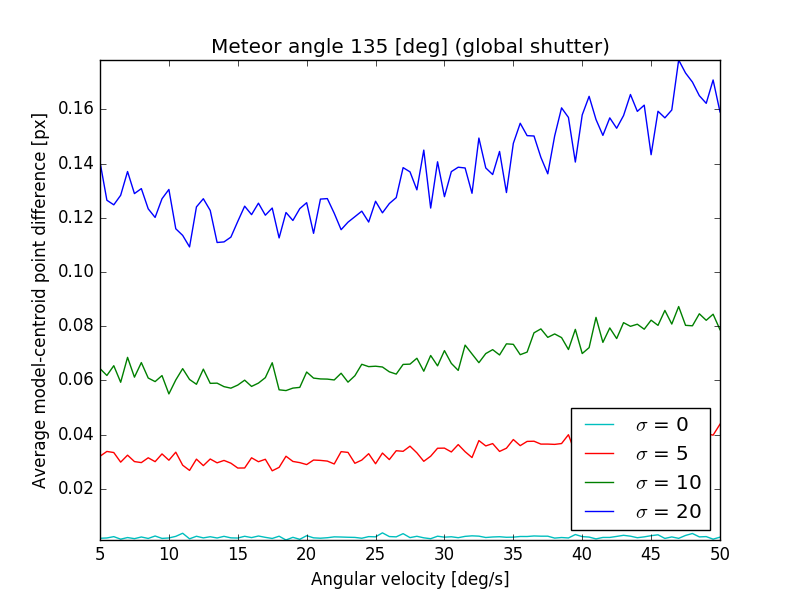
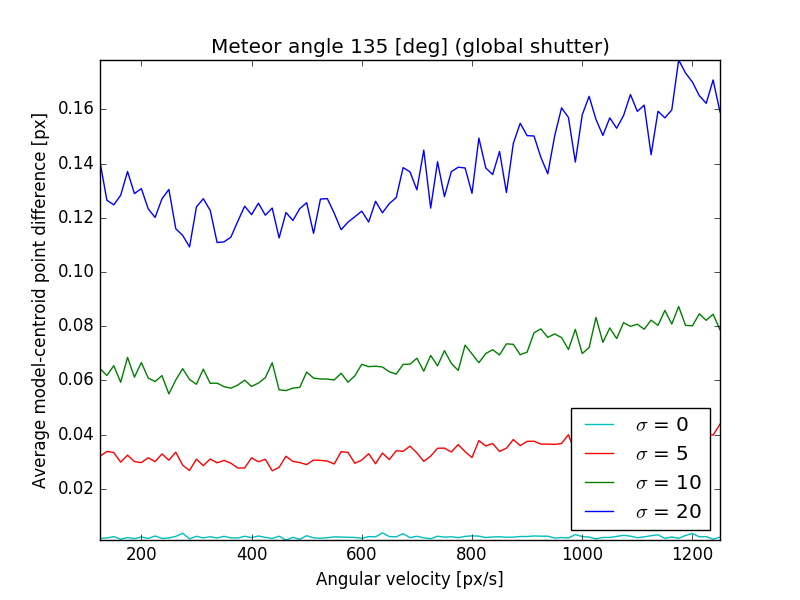
plotting figures

diff --git a/Source/ODN-Rv_corrPlot.py b/Source/ODN-Rv_corrPlot.py
@@ -10,7 +10,7 @@ import Parameters as par
 data = np.load('../Data/ODN/data_odn_v_corr_rolling.npz')
 
 # Unpack and set array names
-omega_arr = data['arr_0']
+omega_arr = data['arr_0'] * par.fps
 noise0_data = data['arr_1']
 noise1_data = data['arr_2']
 noise2_data = data['arr_3']
@@ -24,9 +24,9 @@ plt.plot(omega_arr, noise3_data, 'b-', label = '$\sigma$ = {}'.format(par.noise_
 
 # Label the plot, set plot title, set legend
 plt.legend(loc = 'lower right')
-plt.xlabel("Angular velocity [deg/s]")
+plt.xlabel("Angular velocity [px/s]")
 plt.ylabel("Average model-centroid point difference [px]")
-plt.title("Meteor angle {} [deg] (rolling shutter with corrected coordinates and velocities)".format(par.phi))
+plt.title("Meteor angle {} [deg] (corrected velocity)".format(par.phi))
 
 
 # Configure the plot axis

diff --git a/Source/ODN-RvPlot.py b/Source/ODN-RvPlot.py
@@ -10,7 +10,7 @@ import Parameters as par
 data = np.load('../Data/ODN/data_odn_v_rolling.npz')
 
 # Unpack and set array names
-omega_arr = data['arr_0']
+omega_arr = data['arr_0'] * par.fps
 noise0_data = data['arr_1']
 noise1_data = data['arr_2']
 noise2_data = data['arr_3']
@@ -24,9 +24,9 @@ plt.plot(omega_arr, noise3_data, 'b-', label = '$\sigma$ = {}'.format(par.noise_
 
 # Label the plot, set plot title, set legend
 plt.legend(loc = 'lower right')
-plt.xlabel("Angular velocity [deg/s]")
+plt.xlabel("Angular velocity [px/s]")
 plt.ylabel("Average model-centroid point difference [px]")
-plt.title("Meteor angle {} [deg] (rolling shutter with corrected coordinates)".format(par.phi))
+plt.title("Meteor angle {} [deg] (uncorrected velocity)".format(par.phi))
 
 
 # Configure the plot axis

diff --git a/Source/ODN-RPlot.py b/Source/ODN-RPlot.py
@@ -10,7 +10,7 @@ import Parameters as par
 data = np.load('../Data/ODN/data_odn_rolling.npz')
 
 # Unpack and set array names
-omega_arr = data['arr_0']
+omega_arr = data['arr_0'] * par.fps
 noise0_data = data['arr_1']
 noise1_data = data['arr_2']
 noise2_data = data['arr_3']
@@ -24,9 +24,9 @@ plt.plot(omega_arr, noise3_data, 'b-', label = '$\sigma$ = {}'.format(par.noise_
 
 # Label the plot, set plot title, set legend
 plt.legend(loc = 'lower right')
-plt.xlabel("Angular velocity [deg/s]")
+plt.xlabel("Angular velocity [px/s]")
 plt.ylabel("Average model-centroid point difference [px]")
-plt.title("Meteor angle {} [deg] (rolling shutter)".format(par.phi))
+plt.title("Meteor angle {} [deg]".format(par.phi))
 
 
 # Configure the plot axis

diff --git a/Source/ODN-GPlot.py b/Source/ODN-GPlot.py
@@ -10,7 +10,7 @@ import Parameters as par
 data = np.load('../Data/ODN/data_odn_global.npz')
 
 # Unpack and set array names
-omega_arr = data['arr_0']
+omega_arr = data['arr_0'] * par.fps
 noise0_data = data['arr_1']
 noise1_data = data['arr_2']
 noise2_data = data['arr_3']
@@ -24,7 +24,7 @@ plt.plot(omega_arr, noise3_data, 'b-', label = '$\sigma$ = {}'.format(par.noise_
 
 # Label the plot, set plot title, set legend
 plt.legend(loc = 'lower right')
-plt.xlabel("Angular velocity [deg/s]")
+plt.xlabel("Angular velocity [px/s]")
 plt.ylabel("Average model-centroid point difference [px]")
 plt.title("Meteor angle {} [deg] (global shutter)".format(par.phi))
 

diff --git a/Figures/Source/noise_generator.py b/Figures/Source/noise_generator.py
@@ -1,0 +1,12 @@
+import numpy as np 
+import matplotlib.pyplot as plt 
+
+img_y = img_x = 1000
+noise_scale = [0.01, 5, 10, 20]
+
+for i in range(len(noise_scale)):
+
+	plt.imshow(np.random.normal(loc=0, scale=noise_scale[i], size=(img_y, img_x)), cmap='gray', vmin=0, vmax=255)
+	plt.title(r"$\sigma$ = {}".format(noise_scale[i] if noise_scale[i] != 0.01 else 0))
+	plt.axis("off")
+	plt.show()

diff --git a/Source/Parameters.py b/Source/Parameters.py
@@ -56,7 +56,7 @@ noise_scale_arr = [0, 5, 10, 20]
 offset = 20
 
 # Plot individual frames?
-show_plots = False
+show_plots = True
 
 # Deceleration parameters
 fit_param = [0, 0]
